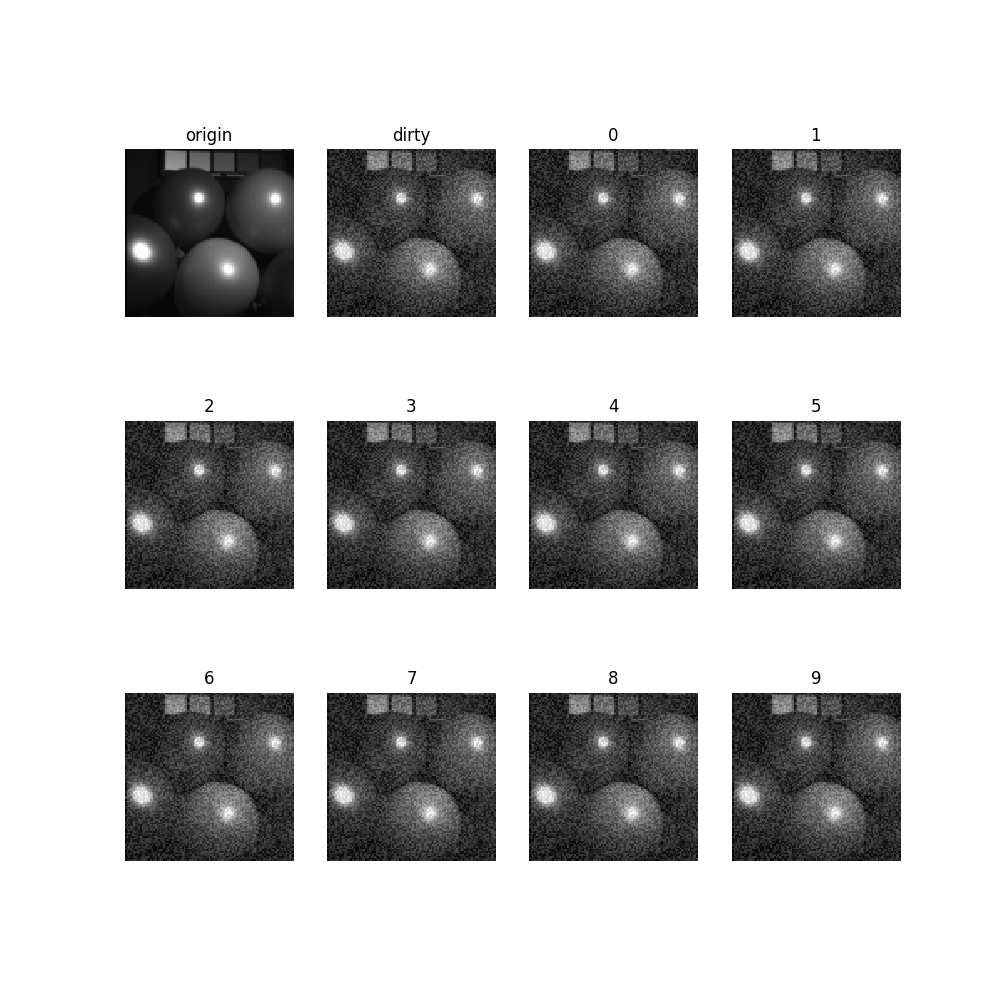
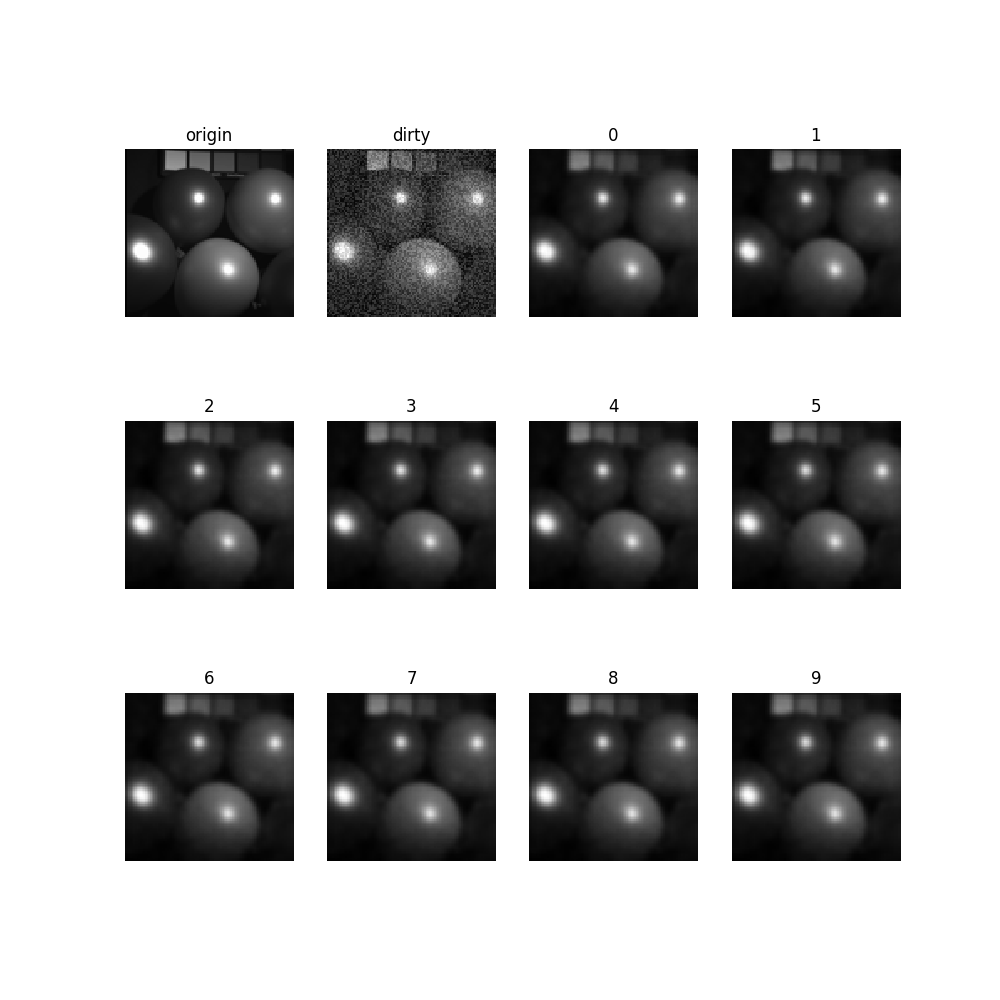
pic

diff --git a/python sparse coding/start.py b/python sparse coding/start.py
@@ -9,9 +9,9 @@ from tprod import *
 from tdl import *
 from psnr3d import *
 import matplotlib.pyplot as plt
+import os
 
 def denoise(OX):
-
     plt.figure(figsize = (10,10))    
     plt.subplot(3,4,1),plt.title('origin')
     plt.imshow(OX[:,:,1],cmap = 'gray'),plt.axis('off')
@@ -28,6 +28,8 @@ def denoise(OX):
     Xhat = np.fft.fft(Xc,axis=-1)  #fft along 3rd
     D0 = init3D(P)
     # defalt = np.zeros((P.r,size_Xc[1],size_Xc[2]))
+    if not os.path.exists('./result'):
+        os.mkdir('./result')
     for i in range(P.maxiter):
         if i == 0:
             B = tsta(Xc,P,D0)
@@ -39,13 +41,12 @@ def denoise(OX):
         emsi = b2t(lu,P,size_X)
 
         plt.subplot(3,4,i+3),plt.title(str(i))
-        plt.imshow(X[:,:,1],cmap = 'gray'),plt.axis('off')
+        plt.imshow(emsi[:,:,1],cmap = 'gray'),plt.axis('off')
 
-        #ps = psnr(emsi*255,OX*255)
-
-        #print('iter={},current PSNR = {}'.format(i,ps)) 
+        ps = psnr(OX*255,emsi*255)
+        print('iter={},current PSNR = {}'.format(i,ps)) 
     
-    plt.savefig('/home/hanlu/Pictures/sparsecoding.png')
+    plt.savefig('./result/sparsecoding.png')
     plt.show()
 
 

diff --git a/python sparse coding/initbase.py b/python sparse coding/initbase.py
@@ -16,4 +16,7 @@ def init3D(P):
     D = np.transpose(np.reshape(Dmat,[patsize**2,patsize,r],order = 'F'),[0,2,1])
     return D
 
+if __name__ == '__main__':
+    print(init3D(P).shape)
+
 
